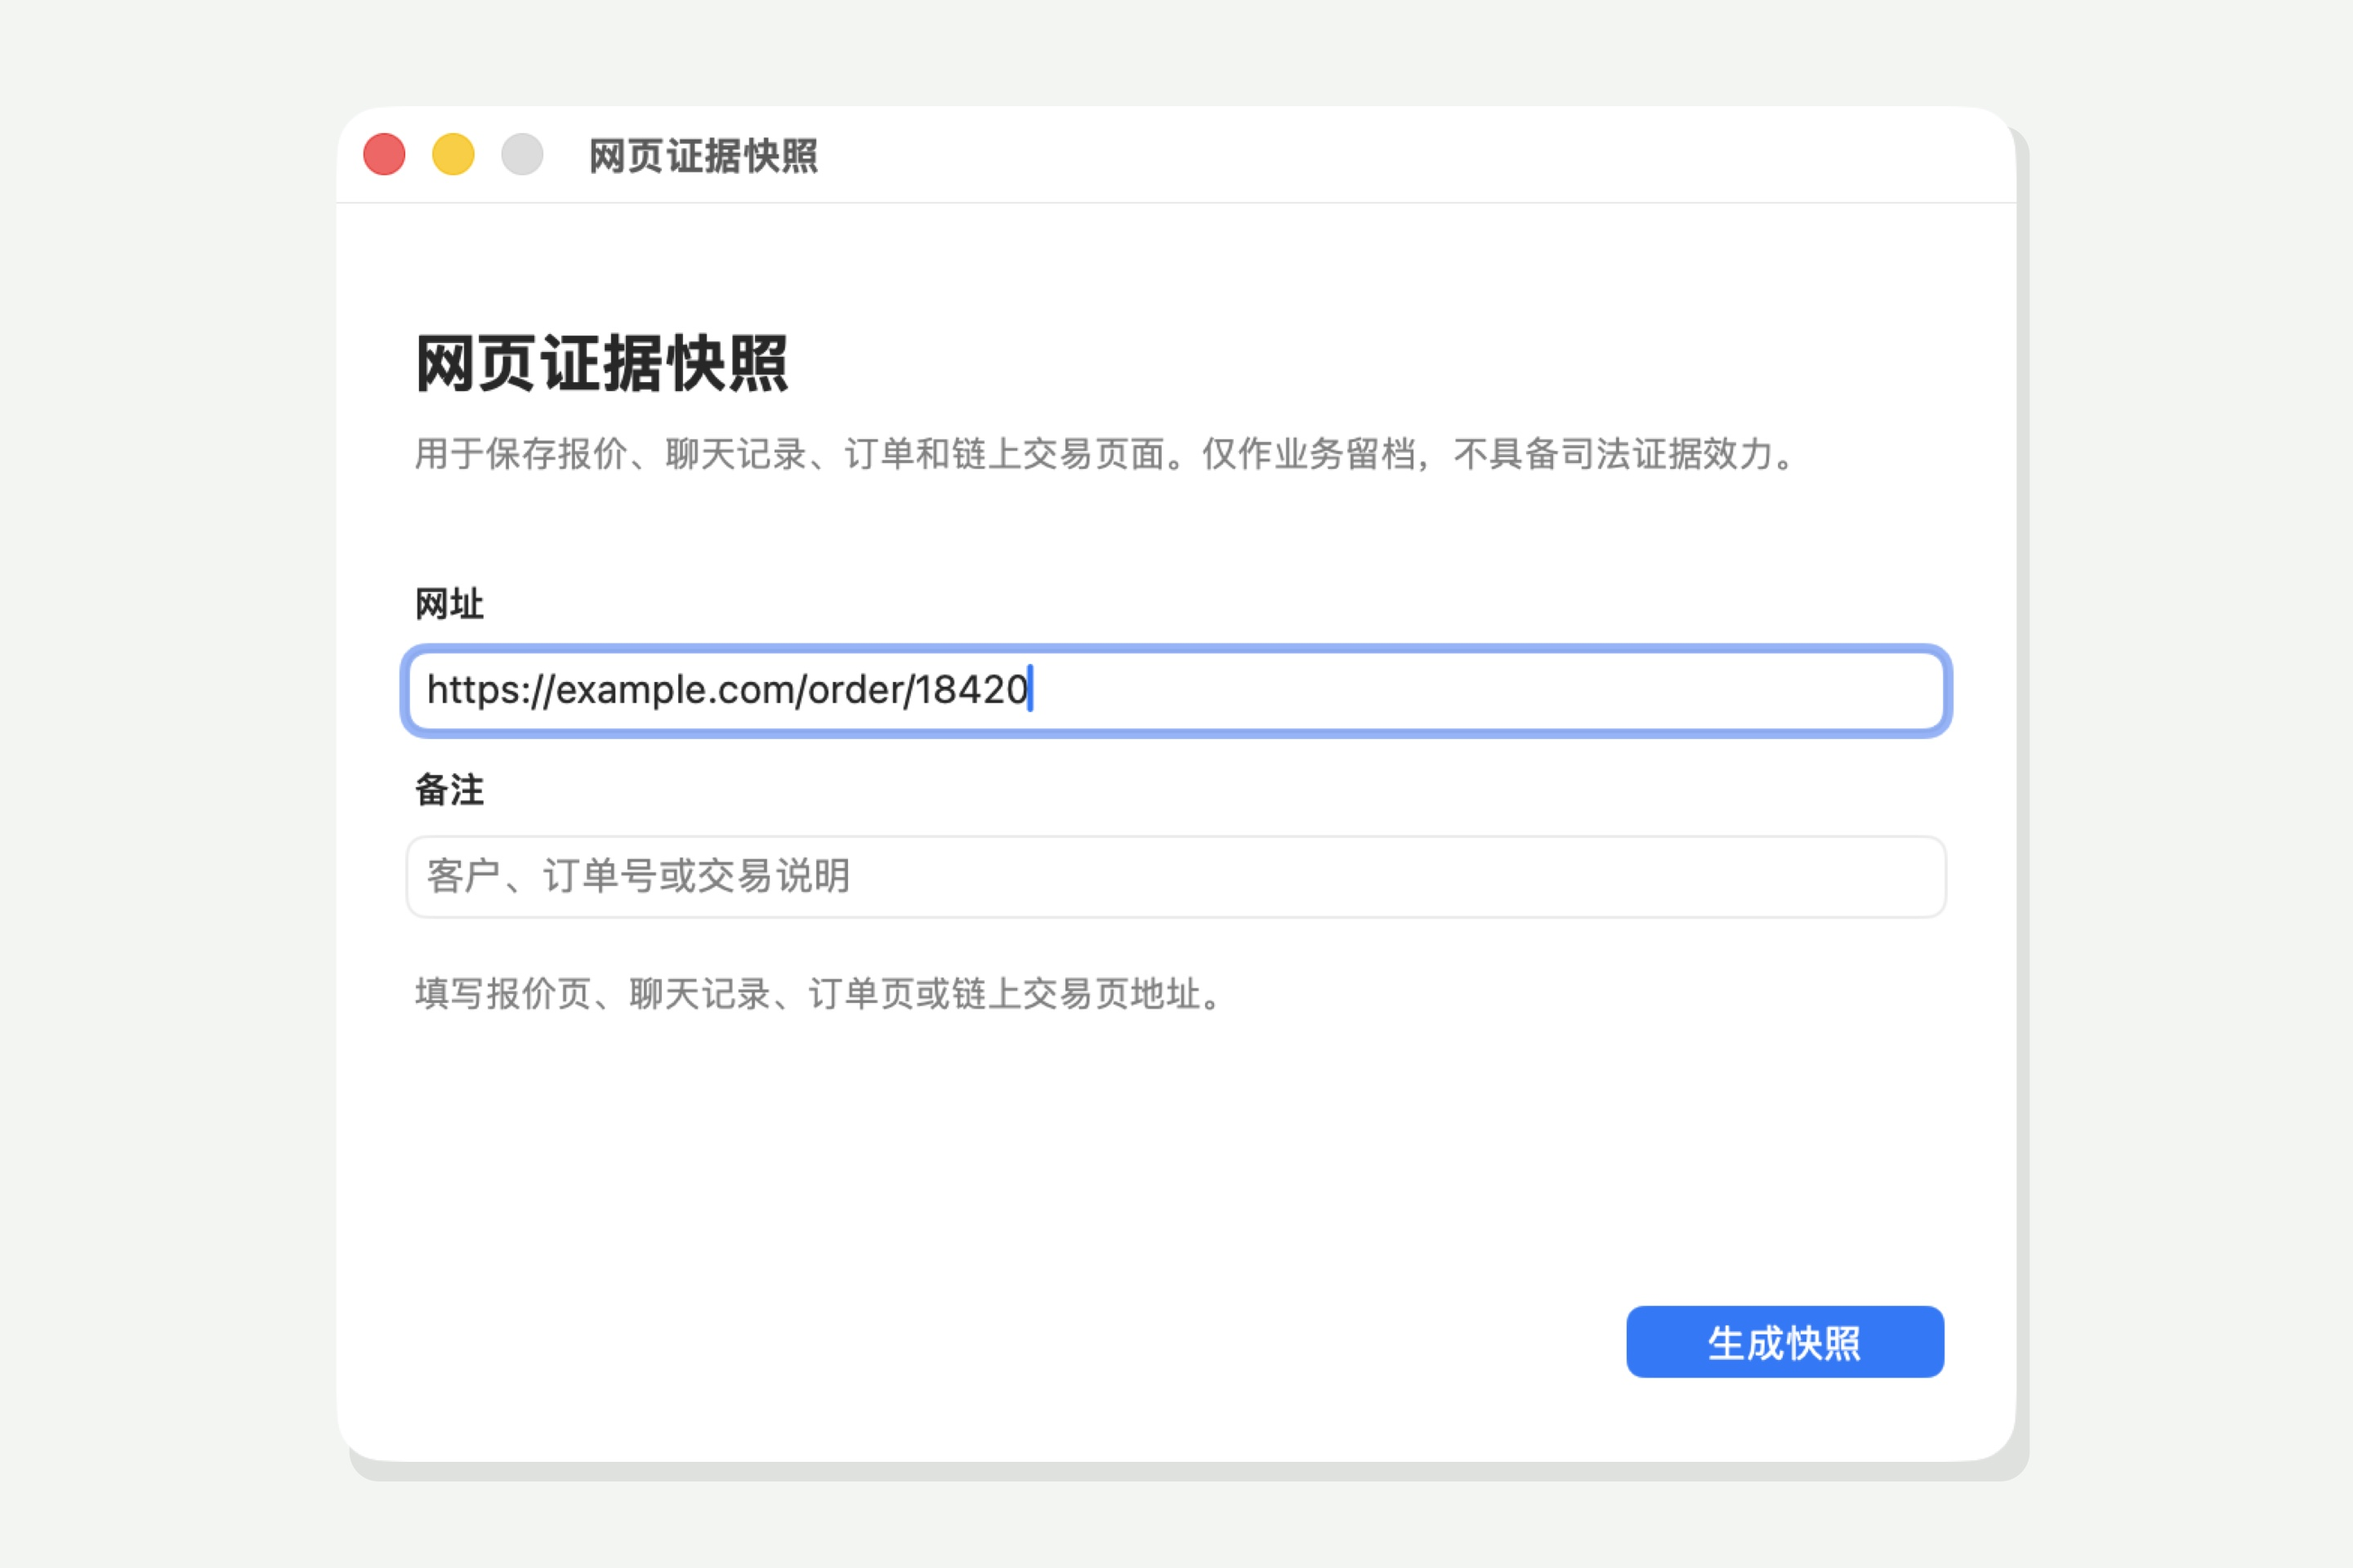
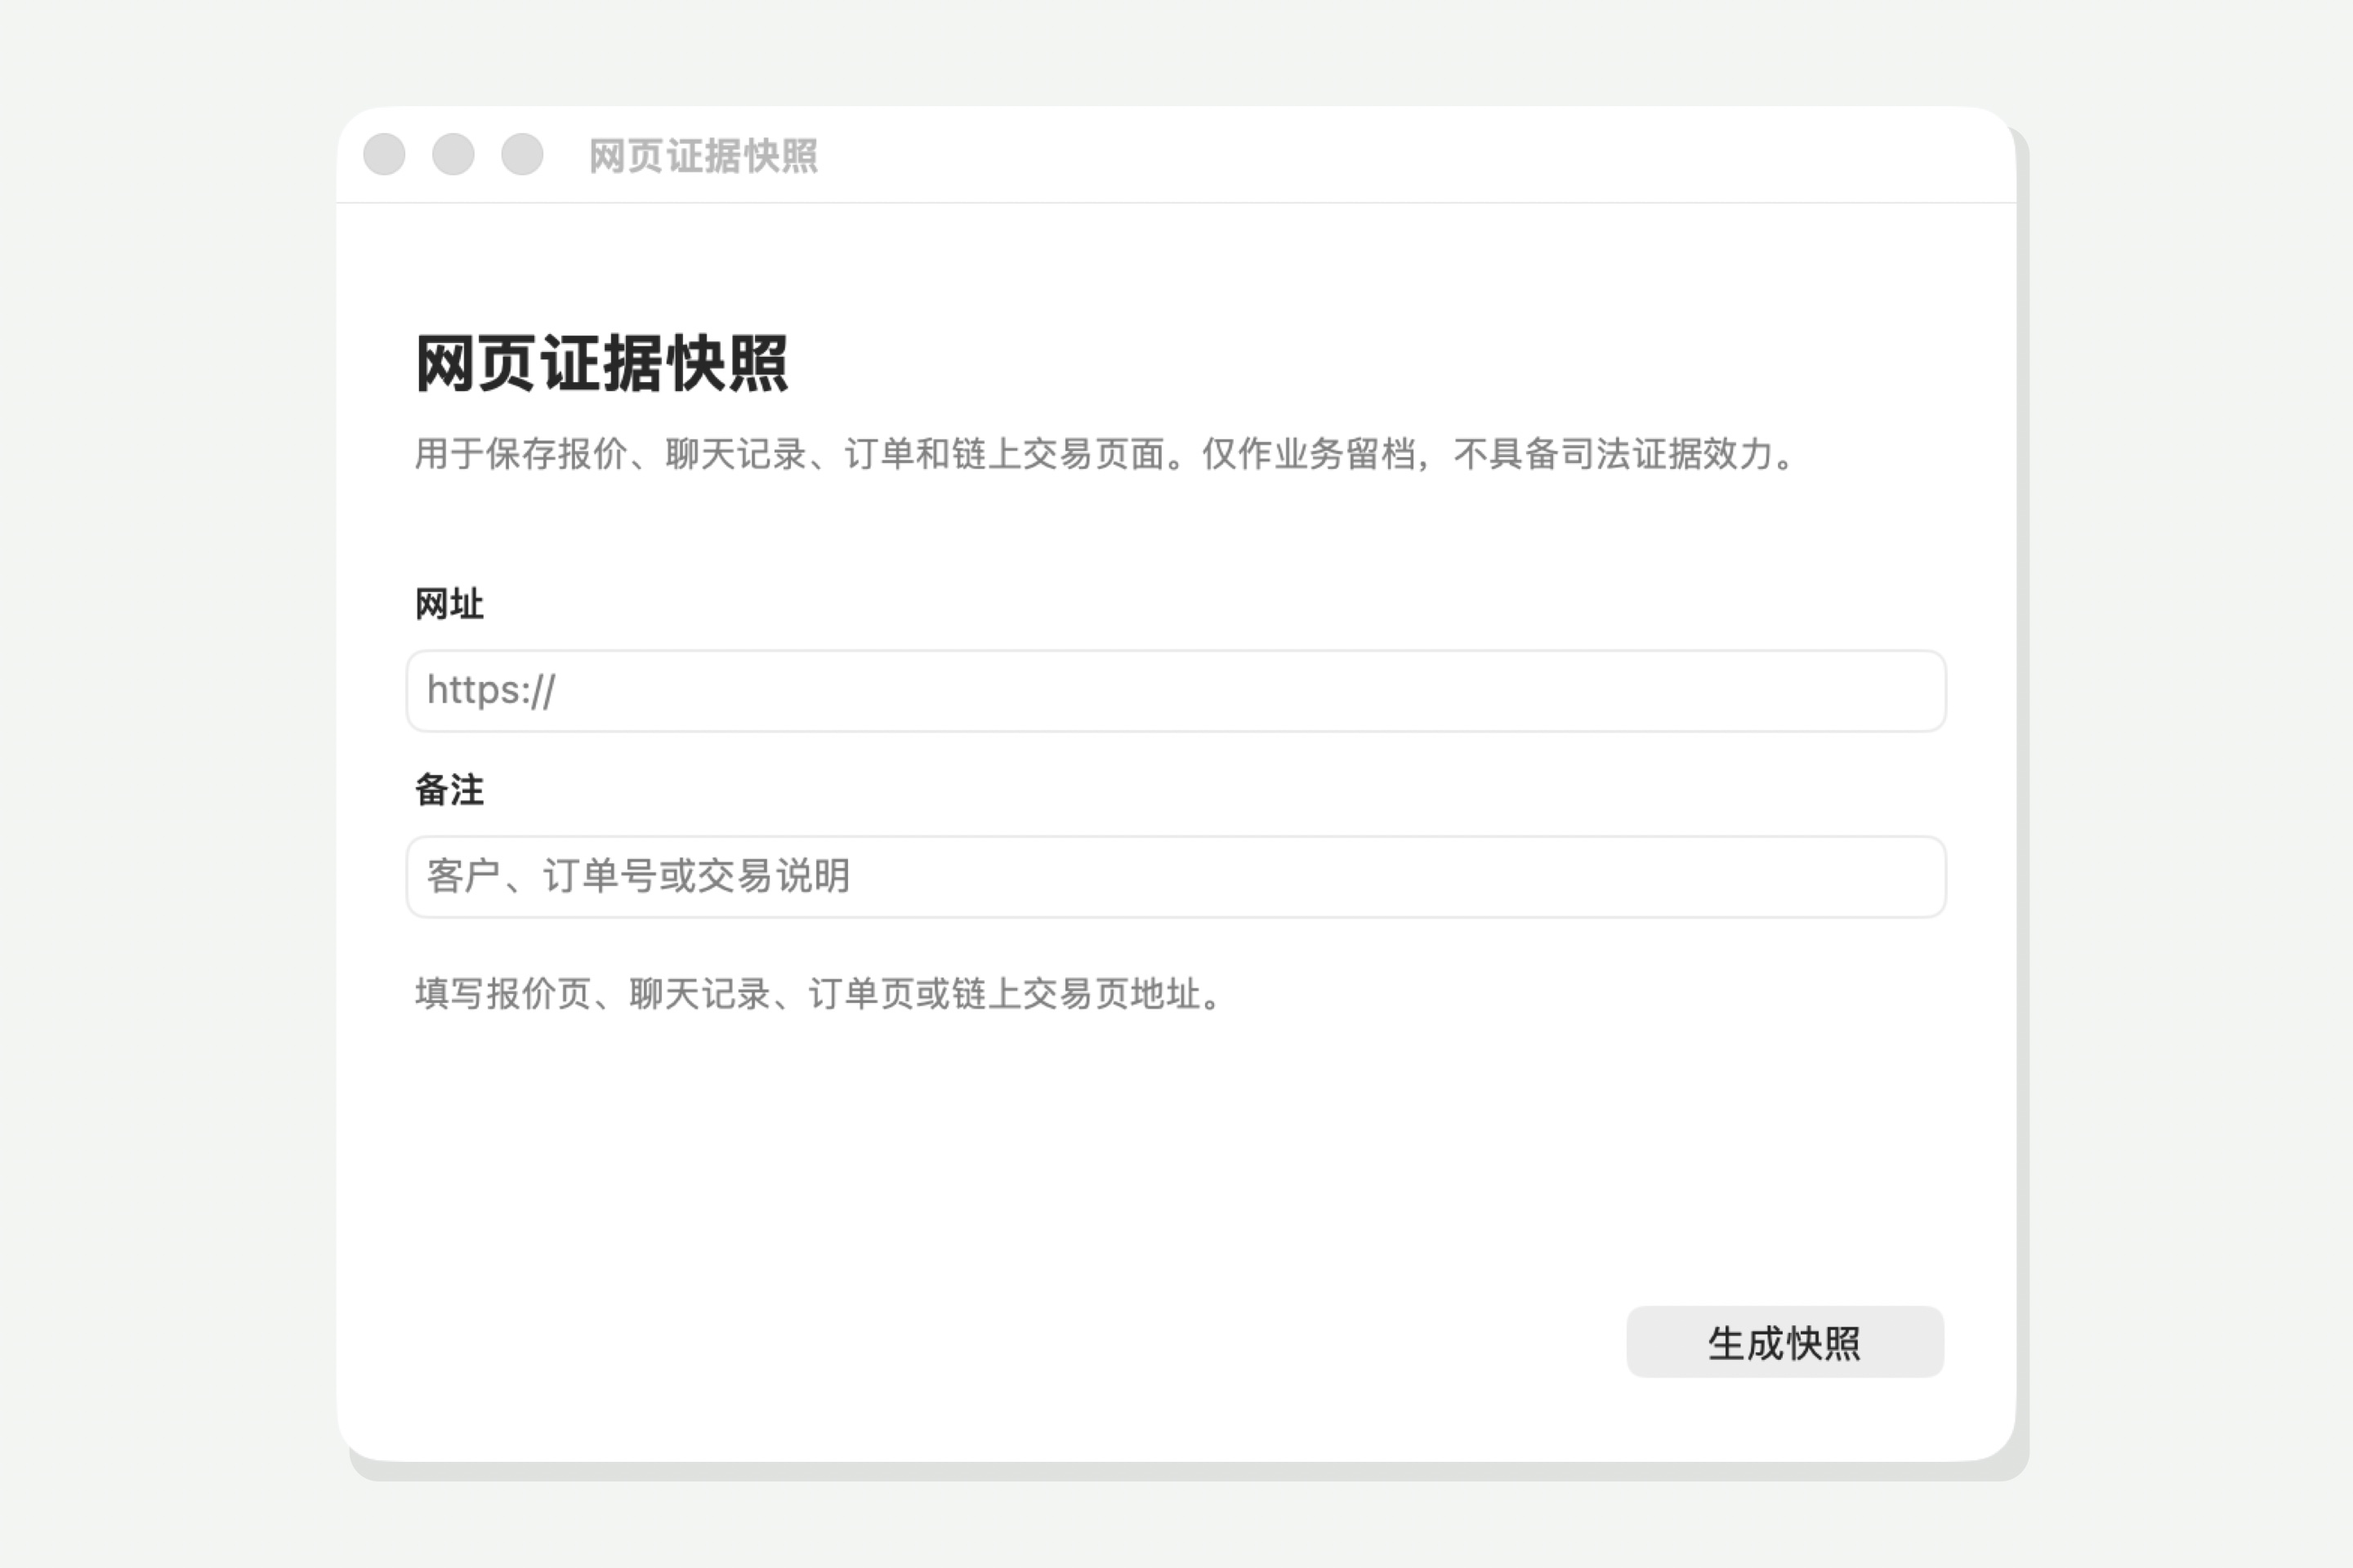
Replace site screenshots with clean app windows and no personal history.

diff --git a/docs/index.html b/docs/index.html
@@ -201,9 +201,9 @@
 
       <div class="showcase" data-carousel data-hero role="region" data-i18n-aria="carousel.aria" aria-label="功能演示">
         <div class="stage">
-          <img class="on" src="ui-home.jpg?v=9" alt="截图" data-i18n-alt="img.shot" data-i="0" width="1440" height="960" fetchpriority="high" decoding="async" />
-          <img src="ui-record.jpg?v=9" alt="录屏" data-i18n-alt="img.rec" data-i="1" width="1440" height="960" loading="lazy" decoding="async" />
-          <img src="ui-evidence.jpg?v=9" alt="网页证据快照" data-i18n-alt="img.ev" data-i="2" width="1440" height="960" loading="lazy" decoding="async" />
+          <img class="on" src="ui-home.jpg?v=10" alt="截图" data-i18n-alt="img.shot" data-i="0" width="1440" height="960" fetchpriority="high" decoding="async" />
+          <img src="ui-record.jpg?v=10" alt="录屏" data-i18n-alt="img.rec" data-i="1" width="1440" height="960" loading="lazy" decoding="async" />
+          <img src="ui-evidence.jpg?v=10" alt="网页证据快照" data-i18n-alt="img.ev" data-i="2" width="1440" height="960" loading="lazy" decoding="async" />
           <span class="stage-shine" aria-hidden="true"></span>
         </div>
         <div class="switcher" role="tablist" data-i18n-aria="switch.aria" aria-label="演示切换">
@@ -317,7 +317,7 @@
           <li data-i18n="ch.shot.li3">Android：下载 APK，网页长截图</li>
         </ul>
       </div>
-      <figure><img src="ui-home.jpg?v=9" alt="截图展示" data-i18n-alt="fig.shot" loading="lazy" width="1440" height="960" /></figure>
+      <figure><img src="ui-home.jpg?v=10" alt="截图展示" data-i18n-alt="fig.shot" loading="lazy" width="1440" height="960" /></figure>
     </section>
 
     <section id="rec" class="chapter flip" data-reveal>
@@ -332,7 +332,7 @@
           <li data-i18n="ch.rec.li4">悬浮计时条不会进入成片</li>
         </ul>
       </div>
-      <figure><img src="ui-record.jpg?v=9" alt="录屏展示" data-i18n-alt="fig.rec" loading="lazy" width="1440" height="960" /></figure>
+      <figure><img src="ui-record.jpg?v=10" alt="录屏展示" data-i18n-alt="fig.rec" loading="lazy" width="1440" height="960" /></figure>
     </section>
 
     <section id="evidence" class="chapter" data-reveal>
@@ -347,7 +347,7 @@
           <li data-i18n="ch.ev.li4">防篡改校验，并导出带时间线的 PDF</li>
         </ul>
       </div>
-      <figure><img src="ui-evidence.jpg?v=9" alt="网页证据快照" data-i18n-alt="fig.ev" loading="lazy" width="1440" height="960" /></figure>
+      <figure><img src="ui-evidence.jpg?v=10" alt="网页证据快照" data-i18n-alt="fig.ev" loading="lazy" width="1440" height="960" /></figure>
     </section>
 
     <section class="chapter" data-reveal>
@@ -361,7 +361,7 @@
           <li data-i18n="ch.ann.li3">钉图 + 历史回看</li>
         </ul>
       </div>
-      <figure><img src="ui-home.jpg?v=9" alt="标注展示" data-i18n-alt="fig.ann" loading="lazy" width="1440" height="960" /></figure>
+      <figure><img src="ui-home.jpg?v=10" alt="标注展示" data-i18n-alt="fig.ann" loading="lazy" width="1440" height="960" /></figure>
     </section>
 
     <section id="docs" class="chapter flip docs" data-reveal>
